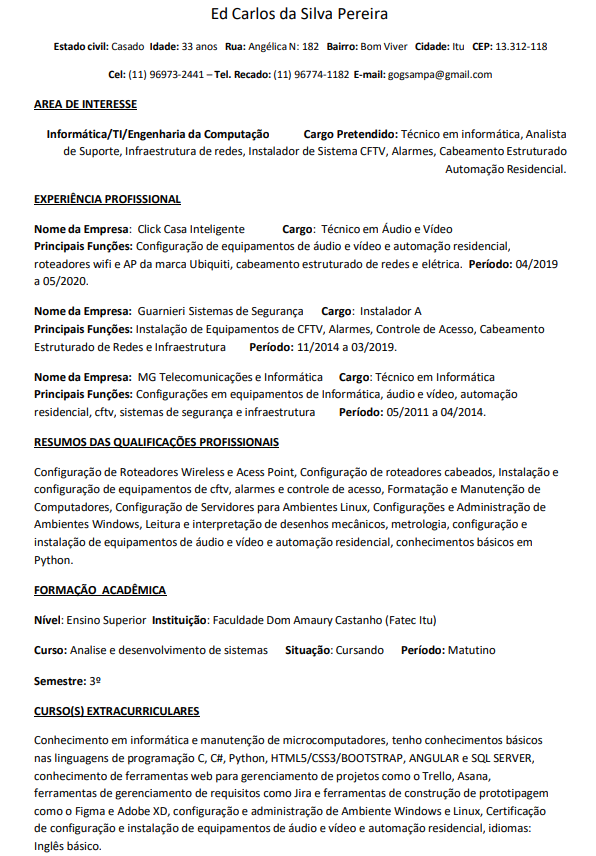
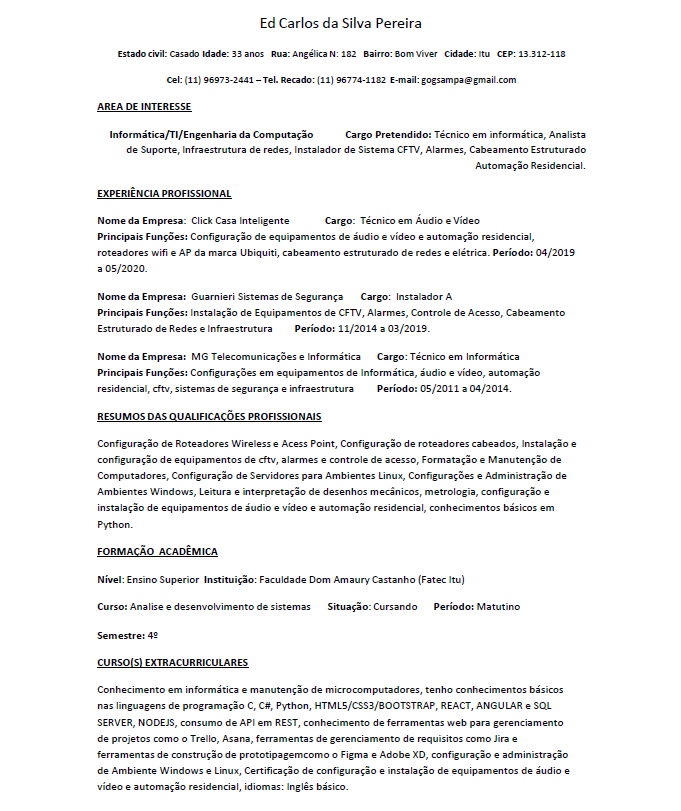
new update in 14/02/2022

Changed region(s): [[0.0604, 0.0, 0.9664, 1.0]]

diff --git a/index.html b/index.html
@@ -91,30 +91,46 @@
                   </div>
                   <div class="skill-mf">
                     <p class="title-s"> Programming Skills </p>
-                    <span>Html</span> <span class="pull-right">55%</span>
+                    <img src="/assets/img/html logo.png" width="21px" /><span class="pull-right"> 75% </span>
                     <div class="progress">
-                      <div class="progress-bar" role="progressbar" style="width: 55%;" aria-valuenow="85" aria-valuemin="0" aria-valuemax="100"></div>
+                      <div class="progress-bar" role="progressbar" style="width: 75%;" aria-valuenow="75" aria-valuemin="0" aria-valuemax="100"></div>
                     </div>
-                    <span>Css3</span> <span class="pull-right">55%</span>
+                    <img src="/assets/img/css3 logo.png" width="30px" /><span class="pull-right"> 75% </span>
                     <div class="progress">
-                      <div class="progress-bar" role="progressbar" style="width: 55%" aria-valuenow="75" aria-valuemin="0" aria-valuemax="100"></div>
+                      <div class="progress-bar" role="progressbar" style="width: 75%" aria-valuenow="75" aria-valuemin="0" aria-valuemax="100"></div>
                     </div>
-                    <span>Python</span> <span class="pull-right">50%</span>
+                    <img src="/assets/img/bootstrap logo.jpg" width="30px" /><span class="pull-right"> 40% </span>
+                    <div class="progress">
+                      <div class="progress-bar" role="progressbar" style="width: 40%" aria-valuenow="40" aria-valuemin="0" aria-valuemax="100"></div>
+                    </div>
+                    <img src="/assets/img/python logo.png" width="25px" /><span class="pull-right"> 50% </span>
                     <div class="progress">
                       <div class="progress-bar" role="progressbar" style="width: 50%" aria-valuenow="50" aria-valuemin="0" aria-valuemax="100"></div>
                     </div>
-                    <span>Javascript</span> <span class="pull-right">20%</span>
+                    <img src="/assets/img/angular logo.png" width="25px" /><span class="pull-right"> 20% </span>
                     <div class="progress">
-                      <div class="progress-bar" role="progressbar" style="width: 20%" aria-valuenow="90" aria-valuemin="0" aria-valuemax="100"></div>
+                      <div class="progress-bar" role="progressbar" style="width: 20%" aria-valuenow="20" aria-valuemin="0" aria-valuemax="100"></div>
                     </div>
-                    <span>C and C# language</span> <span class="pull-right">20%</span>
+                    <img src="/assets/img/react logo.png" width="25px" /><span class="pull-right"> 20% </span>
                     <div class="progress">
-                      <div class="progress-bar" role="progressbar" style="width: 20%" aria-valuenow="90" aria-valuemin="0" aria-valuemax="100"></div>
+                      <div class="progress-bar" role="progressbar" style="width: 20%" aria-valuenow="20" aria-valuemin="0" aria-valuemax="100"></div>
+                    </div>
+                    <img src="/assets/img/javascript logo.png" width="22px" /><span class="pull-right"> 25% </span>
+                    <div class="progress">
+                      <div class="progress-bar" role="progressbar" style="width: 25%" aria-valuenow="25" aria-valuemin="0" aria-valuemax="100"></div>
+                    </div>
+                    <img src="/assets/img/node logo.png" width="30px" /><span class="pull-right"> 15% </span>
+                    <div class="progress">
+                      <div class="progress-bar" role="progressbar" style="width: 15%" aria-valuenow="15" aria-valuemin="0" aria-valuemax="100"></div>
+                    </div>
+                    <img src="/assets/img/c logo.png" width="25px" /><span> And </span> <img src="/assets/img/csharp logo.png" width="25px" /> <span class="pull-right"> 20% </span>
+                    <div class="progress">
+                      <div class="progress-bar" role="progressbar" style="width: 20%" aria-valuenow="20" aria-valuemin="0" aria-valuemax="100"></div>
                     </div>
                     <p class="title-s"> Computer Technician Skills </p>
                     <span>Structured Cabling</span> <span class="pull-right">75%</span>
                     <div class="progress">
-                      <div class="progress-bar" role="progressbar" style="width: 75%" aria-valuenow="90" aria-valuemin="0" aria-valuemax="100"></div>
+                      <div class="progress-bar" role="progressbar" style="width: 75%" aria-valuenow="75" aria-valuemin="0" aria-valuemax="100"></div>
                     </div>
                     <span>Computer Maintenance</span> <span class="pull-right">90%</span>
                     <div class="progress">
@@ -122,7 +138,7 @@
                     </div>
                     <span>Installation of Security Equipment and Home Automation</span> <span class="pull-right">80%</span>
                     <div class="progress">
-                      <div class="progress-bar" role="progressbar" style="width: 80%" aria-valuenow="90" aria-valuemin="0" aria-valuemax="100"></div>
+                      <div class="progress-bar" role="progressbar" style="width: 80%" aria-valuenow="80" aria-valuemin="0" aria-valuemax="100"></div>
                     </div>
                   </div>
                 </div>
@@ -146,6 +162,10 @@
                     <p class="lead">
                       With programming I'm learning about C and C#, Html5/Css3/Bootstrap, Angular, Sql Server, Computer Vision with Python and managing
                       projects using tools like Trello, Asana and prototyping projects with Adobe XD and Figma.
+                    </p>
+                    <p class="lead">
+                      I'm currently studying the 4th semester in the morning, I'm learning more about node.js, consuming api, react, mongoDB
+                      among other technologies that I will update here in my portfolio throughout my learning.
                     </p>
                   </div>
                 </div>
@@ -207,7 +227,7 @@
               <div class="work-content">
                 <div class="row">
                   <div class="col-sm-8">
-                    <h2 class="w-title">Html and Css3 layout task</h2>
+                    <h2 class="w-title">Html/Css3 layout task</h2>
                     <div class="w-more">
                       <span class="w-ctegory">Web Design</span> / <span class="w-date">21 Sep. 2021</span>
                     </div>
@@ -255,9 +275,9 @@
               <div class="work-content">
                 <div class="row">
                   <div class="col-sm-8">
-                    <h2 class="w-title">My prototype app, Petito Shop </h2>
+                    <h2 class="w-title">Prototype app</h2>
                     <div class="w-more">
-                      <span class="w-ctegory">Web Design in Figma</span> / <span class="w-date"> .. Dez. 2021</span>
+                      <span class="w-ctegory">Web Design in Figma</span> / <span class="w-date"> 14 Fev. 2022</span>
                     </div>
                   </div>
                   <div class="col-sm-4">
@@ -305,12 +325,12 @@
                   <div class="col-sm-8">
                     <h2 class="w-title"> My Curriculum </h2>
                     <div class="w-more">
-                      <span class="w-ctegory">Web Design</span> / <span class="w-date"></span>
+                      <span class="w-ctegory">Curriculum</span> / <span class="w-date"> 14 Fev. 2022</span>
                     </div>
                   </div>
                   <div class="col-sm-4">
                     <div class="w-like">
-                      <!-- <a href=""> <span class="bi bi-eye"></span></a> -->
+                     <a href="/assets/img/portfóliocompleto.png"> <span class="bi bi-eye"></span></a>
                     </div>
                   </div>
                 </div>
